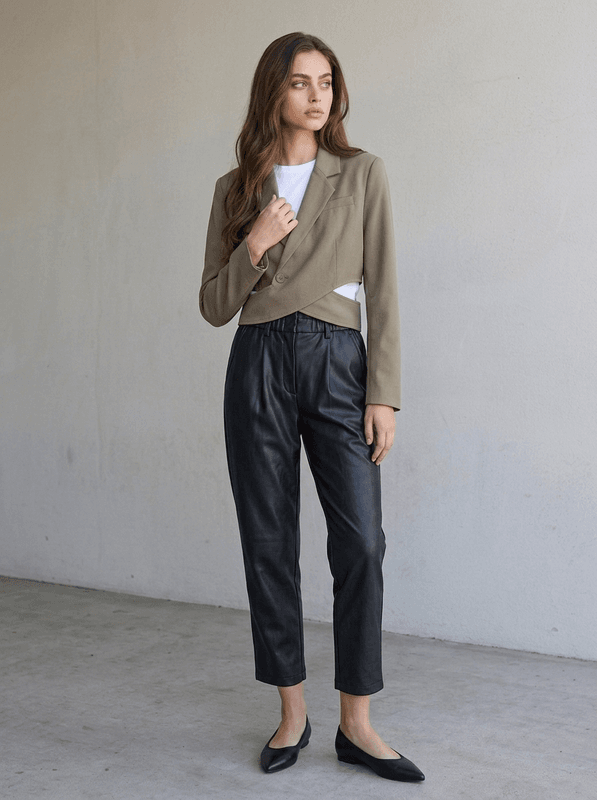
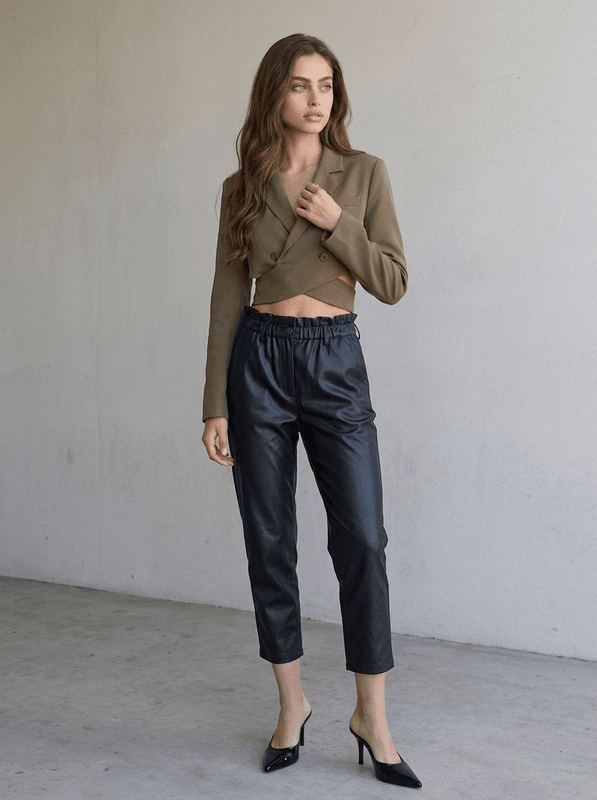
fix(landing): galería fiel — array a 8 looks + gal-6..10 con outfits reales
(El commit anterior solo alcanzó a borrar gal-4/5; esto trae el cambio de array
y el contenido fiel de los slots que faltó.)

Changed region(s): [[0.3317, 0.0312, 0.7236, 1.0], [0.5427, 0.625, 0.5729, 0.6562]]

diff --git a/components/landing/landing.tsx b/components/landing/landing.tsx
@@ -459,13 +459,11 @@ export function Landing() {
               {[
                 "gal-1",
                 "gal-6",
-                "gal-2",
-                "gal-9",
                 "gal-3",
+                "gal-9",
+                "gal-2",
                 "gal-10",
-                "gal-4",
                 "gal-7",
-                "gal-5",
                 "gal-8",
               ].map((g) => (
                 <div key={g} className={styles.galItem}>
